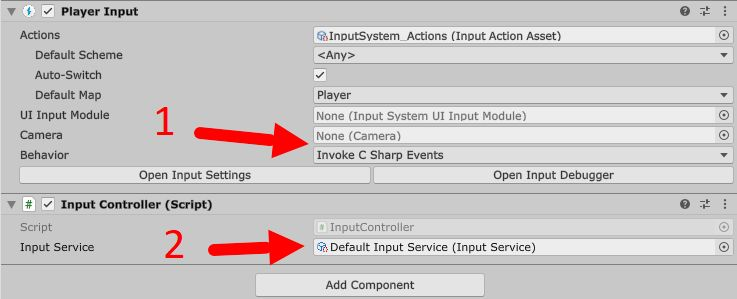
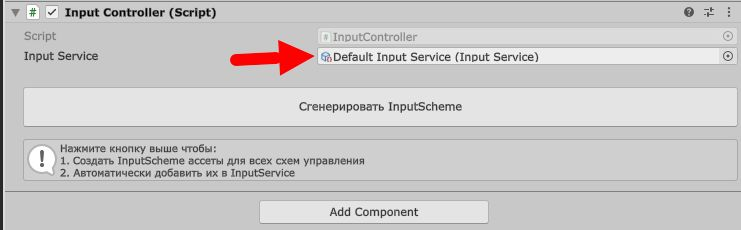
Автоматическая установка системы работы PlayerInput & обновление README

diff --git a/Runtime/Components/InputController.cs b/Runtime/Components/InputController.cs
@@ -1,3 +1,4 @@
+using System;
 using MadeYellow.InputBus.Schemes;
 using UnityEngine;
 using UnityEngine.InputSystem;
@@ -13,13 +14,20 @@ namespace MadeYellow.InputBus.Components
     public class InputController : MonoBehaviour
     {
         /// <summary>
-        /// Через этот сервис регистрируются и маршрутизируются команды
+        /// Сервис-шина для маршрутизации <see cref="InputAction"/> к методам обработчикам
         /// </summary>
+        public InputService InputService => _inputService;
+
         [SerializeField]
         private InputService _inputService;
-
+       
         private PlayerInput _playerInput;
 
+        /// <summary>
+        /// Событие инициализации <see cref="InputService"/>
+        /// </summary>
+        public event Action OnInitialized;
+        
         private void Awake()
         {
             if (_inputService is null)
@@ -34,10 +42,11 @@ namespace MadeYellow.InputBus.Components
             
             // Считать PlayerInput и передать его в сервис-шину для инициализации
             _playerInput = GetComponent<PlayerInput>();
-
+            _playerInput.notificationBehavior = PlayerNotifications.InvokeCSharpEvents; // Автоматически установить поведение на InvokeCSharpEvents
+            
             _inputService.Initilize(_playerInput);
 
-            DontDestroyOnLoad(gameObject);
+            OnInitialized?.Invoke();
         }
 
 #if UNITY_EDITOR

diff --git a/README.md b/README.md
@@ -4,16 +4,9 @@
 # ❓ Что это такое?
 Используйте **C# event** из `PlayerInput` в Unity без лишнего кода и хлопот.
 
-Этот пакет реализует подобие "шины", слушая происходящие в `PlayerInput` действия `InputAction` и маршрутизирует их к нужным игровым методам!
+Этот пакет реализует подобие "шины", слушая происходящие в `PlayerInput` действия `InputAction` и автоматически маршрутизирует их к нужным игровым методам-обработчикам! Вам остаётся только реализовать.
 
-*	Добавьте к GameObject, в котором расположен `PlayerInput` готовый компонент `InputController`;
-*	Назначьте в редакторе ScriptableObject шины для добавленного `InputController`;
-*	Переведите `PlayerInput` в режим **Invoke C# Events**; 
-*	Зарегистрируйте игровые методы, которые должны срабатывать при определённых командах от игрока (пара строк кода);
-
-![Установка компонентов системы. Просто добавьте компонент InputController к тому GameObject где уже имеется PlayerInput](https://github.com/madeyellow/InputBus/blob/main/Samples/how-to-set-components.jpg)
-
-Готово! Система автоматически маршрутизирует вызываемые игроком `InputAction` к нужным методам - вам остаётся их только реализовать. Добавить методы к маршрутизации можно следующим образом:
+Добавить методы-обработчики к маршрутизации можно следующим образом:
 
 ```csharp
 // Это нужно добавить внутрь вашего MonoBehaviour где вы будете принимать инпут
@@ -40,46 +33,6 @@ public class MyInputController : MonoBevaiour {
 }
 ```
 
-А примерно так может выглядеть класс, который должен работать с инпутом:
-
-```csharp
-using UnityEngine.InputSystem;
-
-public class MyCharacterClass : MonoBehaviour {
-    /// <summary>
-    /// Считать команду на "перемещение"
-    /// </summary>
-    public void Move(InputAction.CallbackContext context)
-    {
-        if (context.performed)
-        {
-            var moveInput = context.ReadValue<Vector2>();
-
-            // Передать системе персонажа, что игрок хочет двигаться в указанном направлении
-        }
-        else if (context.canceled)
-        {
-            // Передать системе персонажа, что игрок хочет остановиться
-        }
-    }
-
-    /// <summary>
-    /// Считать команду на спринт
-    /// </summary>
-    public void Sprint(InputAction.CallbackContext context)
-    {
-        if (context.performed)
-        {
-            // Передать системе персонажа, что можно начать спринт
-        }
-        else if (context.canceled)
-        {
-            // Передать системе персонажа, что нужно завершить спринт
-        }
-    }
-}
-```
-
 # 💾 Установка
 * Откройте **Unity Package Manager** (Window > Package Manager) ИЛИ (Window > Package Management > Package Manager) для **Unity 6**;
 * Нажмите "+" → "Add package from git URL";
@@ -90,15 +43,85 @@ https://github.com/madeyellow/InputBus.git
 ```
 
 # 🚀 Начало работы
-## Шаг 1
-ToDo
+## Предварительные условия
+> [!NOTE]
+> Если вы уже используете и настроили ранее `PlayerInput` - то можете пропустить этот шаг.
+
+Если вы ещё не используете компонент `PlayerInput` (это компонент Unity для работы с "новой" Input System), то:
+* Создайте пустой GameObject;
+* Добавьте к нему компонент `PlayerInput`;
+  * Укажите в поле Actions нужную вам схему;
+
+## Шаг 1. Настройка шины
+В окне **Project** где-нибудь в папке **Assets** нажнимте *правой кнопкой мышки* и при помощи комадны **Create > Input Bus > Input Service** создайте новую шину для работы с инпутом игрока.
+
+![Установка компонентов системы. Просто добавьте компонент InputController к тому GameObject где уже имеется PlayerInput](https://github.com/madeyellow/InputBus/blob/main/Samples/how-to-create-input-bus.jpg)
+
+Добавьте к GameObject в котором располагается компонент `PlayerInput` компонент `InputController` из этого пакета. Укажите в поле **Input Service** созданную вами шину.
+
+![Установка компонентов системы. Просто добавьте компонент InputController к тому GameObject где уже имеется PlayerInput](https://github.com/madeyellow/InputBus/blob/main/Samples/how-to-set-components.jpg)
+
+Всё настроено и готов к работе! Далее рассмотрим как настроить маршрутизацию инпута и вашего метода-обработчика.
+
+## Шаг 2. Реализация метода-обработчика
+Представим, что вам нужно связать инпут "Move" (допустим это клавиши WASD, образующие `Vector2`) с какой-то функцией, которая будет запоминать инпут пользователя и двигать персонажа игрока.
+
+В классе, который должен двигать игрока нужно добавить связь с шиной и подписаться на нужный инпут. Будет выглядеть это так:
+
+```csharp
+using MadeYellow.InputBus.Components; // Добавляем это, чтобы использовать шину
+using UnityEngine.InputSystem; // Добавляем это, что использовать типы InputSystem
+
+public class MyCharacter : MonoBehaviour 
+{
+    // Добавляем ссылку на шину
+    public InputService inputBus; 
+    
+    // В эту переменную мы сохраним инпут перемещения от игрока.
+    // Что-то подобное у вас уже скорее всего есть.
+    private Vector2 _moveInput; 
+    
+    private void Start() 
+    {
+        // Добавляем метод Move в шину (вызываем один раз), чтобы принимать инпут от игрока.
+        // Функция Move для его обработки будет вызываться автоматически
+        inputBus.Subscribe(Move);   
+    }
+    
+    // Добавляем метод-обработчик. Называем его так же, как называется инпут!
+    // Можете реализовать его тело как угодно. Самый простой пример представлен внизу.
+    public void Move(InputAction.CallbackContext context)
+    {
+        if (context.performed)
+            // Когда пользователь выполнил инпут для перемещения - считать что он нажал
+            _moveInput = context.ReadValue<Vector2>();  
+        else if (context.canceled)
+            // Если пользователь отпустил все кнопки - запомнить это и сбросить инпут
+            _moveInput = Vector2.zero; 
+    }
+    
+    // Ваша логика перемещения персонажа - может быть абсолютно любой.
+    private void Update() 
+    {
+        transform.Translate(new Vector3(_moveInput.x, 0f, _moveInput.y) * 10 * Time.deltaTime, Space.World);
+    }
+}
+```
 
 # ⚡ Почему вам это понравится
-ToDo
+* 🧠 Можно быстро начать и легко работать;
+* ⚡ Автоматическая маршрутизация инпута к методам;
+* 💎 Понятное и мощное API;
+* 🚀 Высокая производительность;
+* 📦 Компатная библиотека без внешних зависимостей;
 
 # 🗺 Roadmap
 ## Запланированные функции
-ToDo
+- [x] Обработка смены схемы управления + событие смены схемы;
+- [x] Генератор схем на основе `PlayerInput`;
+- [ ] Способ схемо-зависимой обработки инпута;
+- [ ] Добавить в Samples примеры использования;
+- [ ] Расписать все способы работы с пакетом;
 
 # 🐞 Нашли баг или хотите запросить какой-то функционал?
 
